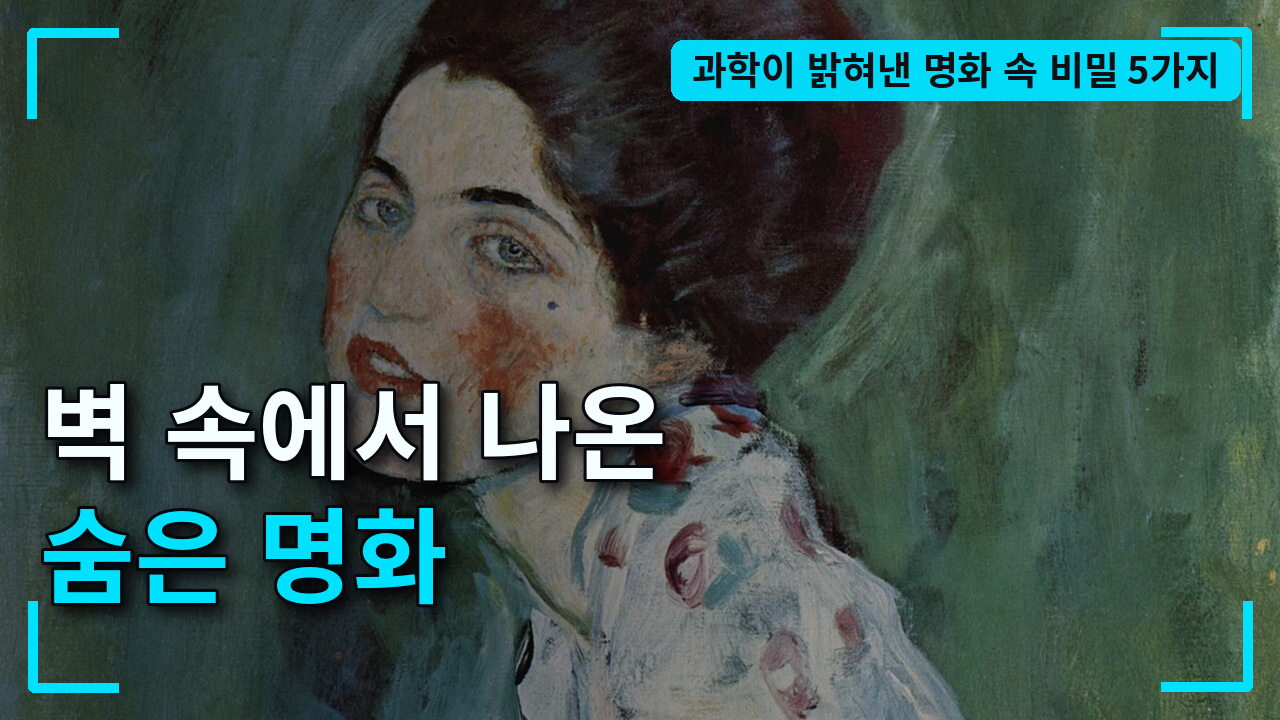
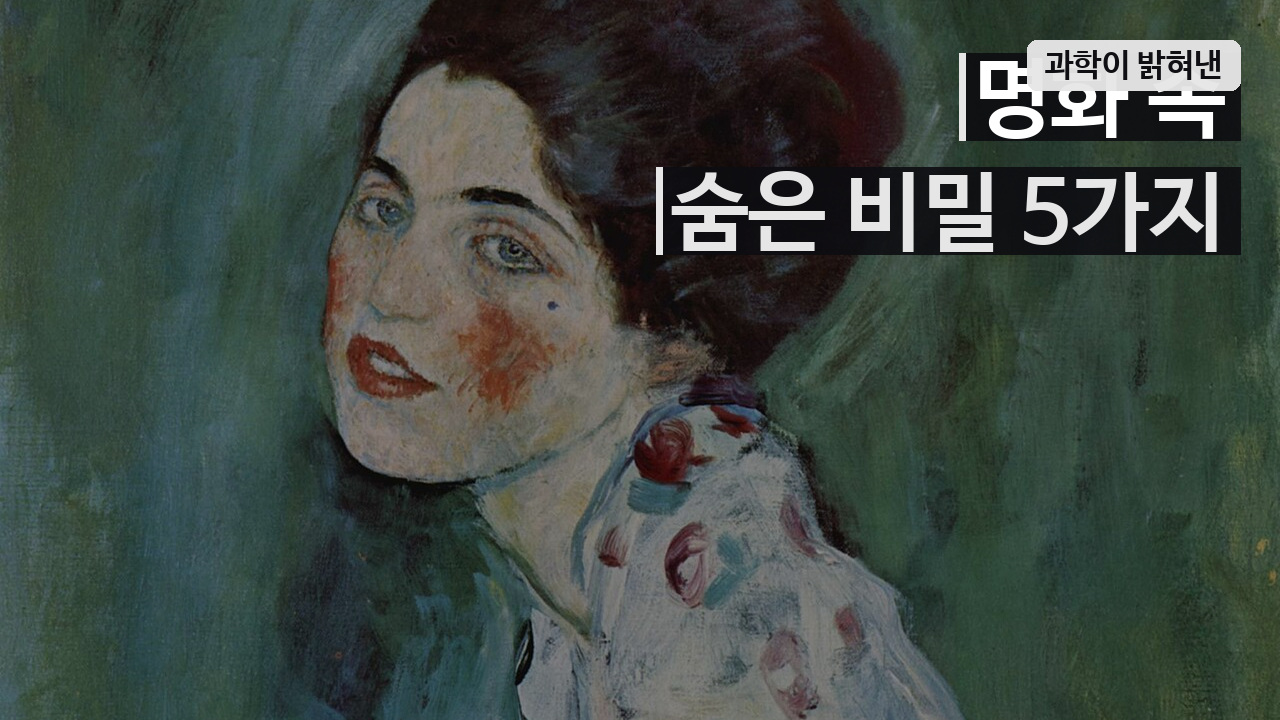
장문 두 편: 업로드 제목·썸네일 글씨를 영상 제목과 통일
Claude-Session: https://claude.ai/code/session_01KXxVRDf2n33bG4QZRRf5GP

diff --git a/CLAUDE.md b/CLAUDE.md
@@ -31,6 +31,9 @@
   위키미디어 공용에서 컷마다 자유 이용 사진 후보를 받아(`장문/안티키테라/사진_찾기.py` — 표준 크기 1280px·요청 사이 몇 초 쉼, 빠르면 429 막힘)
   직접 보고 고른 뒤 출처·라이선스를 화면 설명에 적음. 맞는 사진이 없는 장면(사라진 옛 사건·상상 복원)만 AI 그림
   장문 AI 그림 화풍은 **'다큐 수채화'**(사실적인 역사 수채화, 사용자 결정 2026-10-25 — 유화풍은 손가락·팔 수가 자주 틀림). 검수 때 인물마다 손가락·팔·손 수를 꼭 셈
+- 제목 통일 규칙(필수, 사용자 결정 2026-10-25): **영상 안 제목(회차·주제 .py 의 TITLE) = 유튜브 업로드 제목 = 썸네일 글씨 = 영어·일본어 제목(그 번역)**.
+  업로드_문구.txt 의 [제목] 추천은 TITLE 그대로, 다른 후보는 참고로만(바꾸려면 TITLE 을 바꿔 영상·자막·썸네일을 다시 만듦).
+  썸네일 글씨는 제목 낱말로 만듦(큰 글씨 + 작은 띠를 이어 읽으면 제목이 되게, 예: '과학이 밝혀낸' + '명화 속 / 숨은 비밀 5가지')
 - 업로드 문구 규칙(필수): 영상을 보낼 때마다 유튜브 업로드용 한국어 제목·설명·해시태그·태그를 `장문/<주제>/업로드_문구.txt`(읽기 쉬운 txt, [제목]·[설명]·[태그] 칸)로 만들어 같이 보냄
 - 장문 다큐 사진 정보 표시(필수, 사용자 결정 2026-10-25): 장문은 **오른쪽 위에 사진·그림 정보**를 띄움 (`img_label: on`) —
   첫 줄 = 무엇인지(사진 설명), 둘째 줄 = 출처(작가 / 라이선스 / Wikimedia Commons, AI 그림이면 'AI 복원 그림 (FLUX.2 klein, 수채화)').
